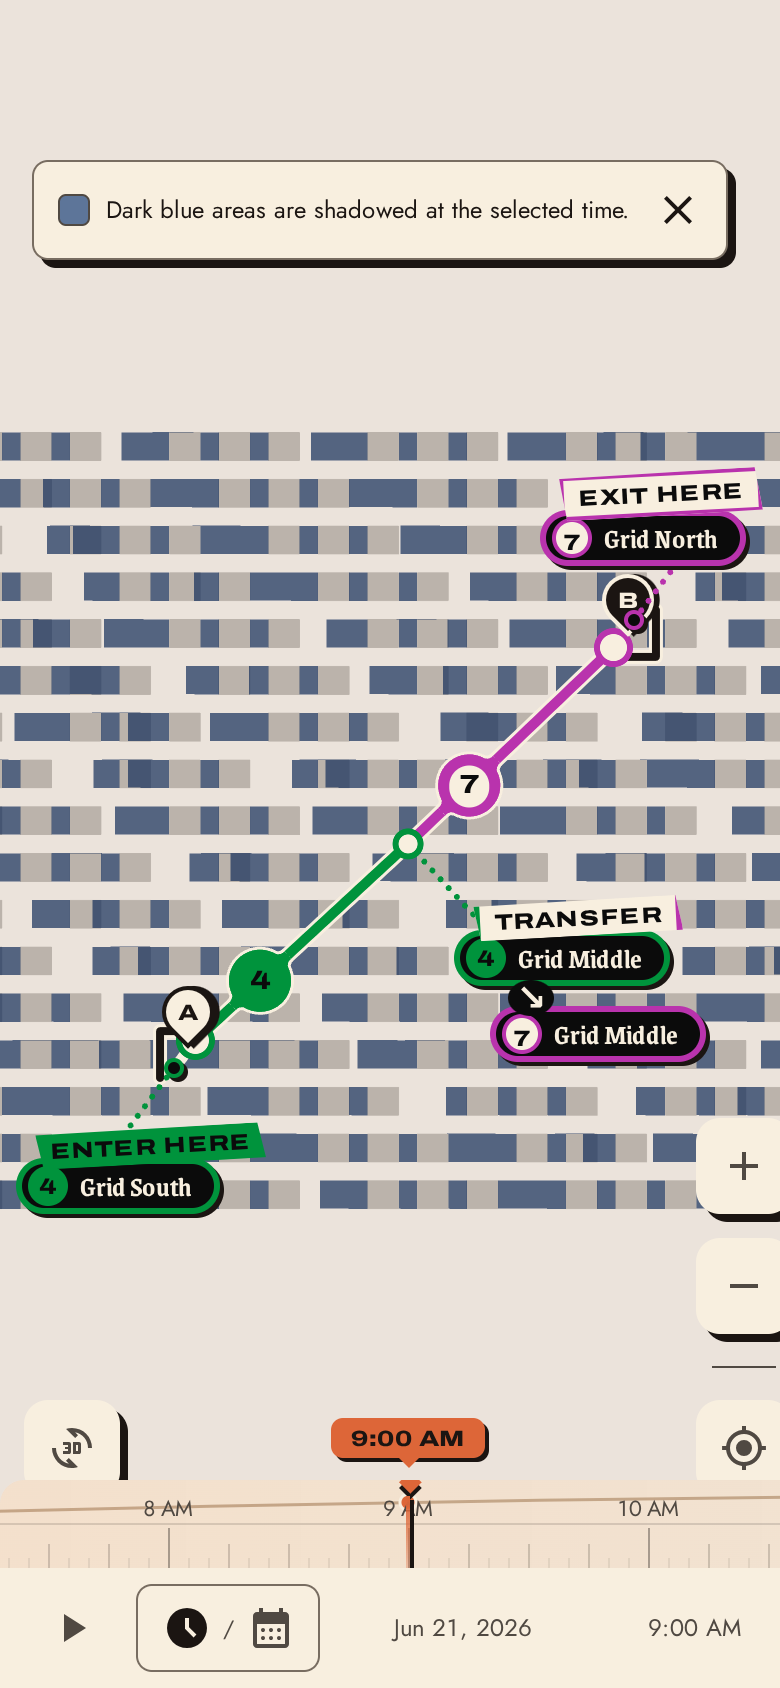
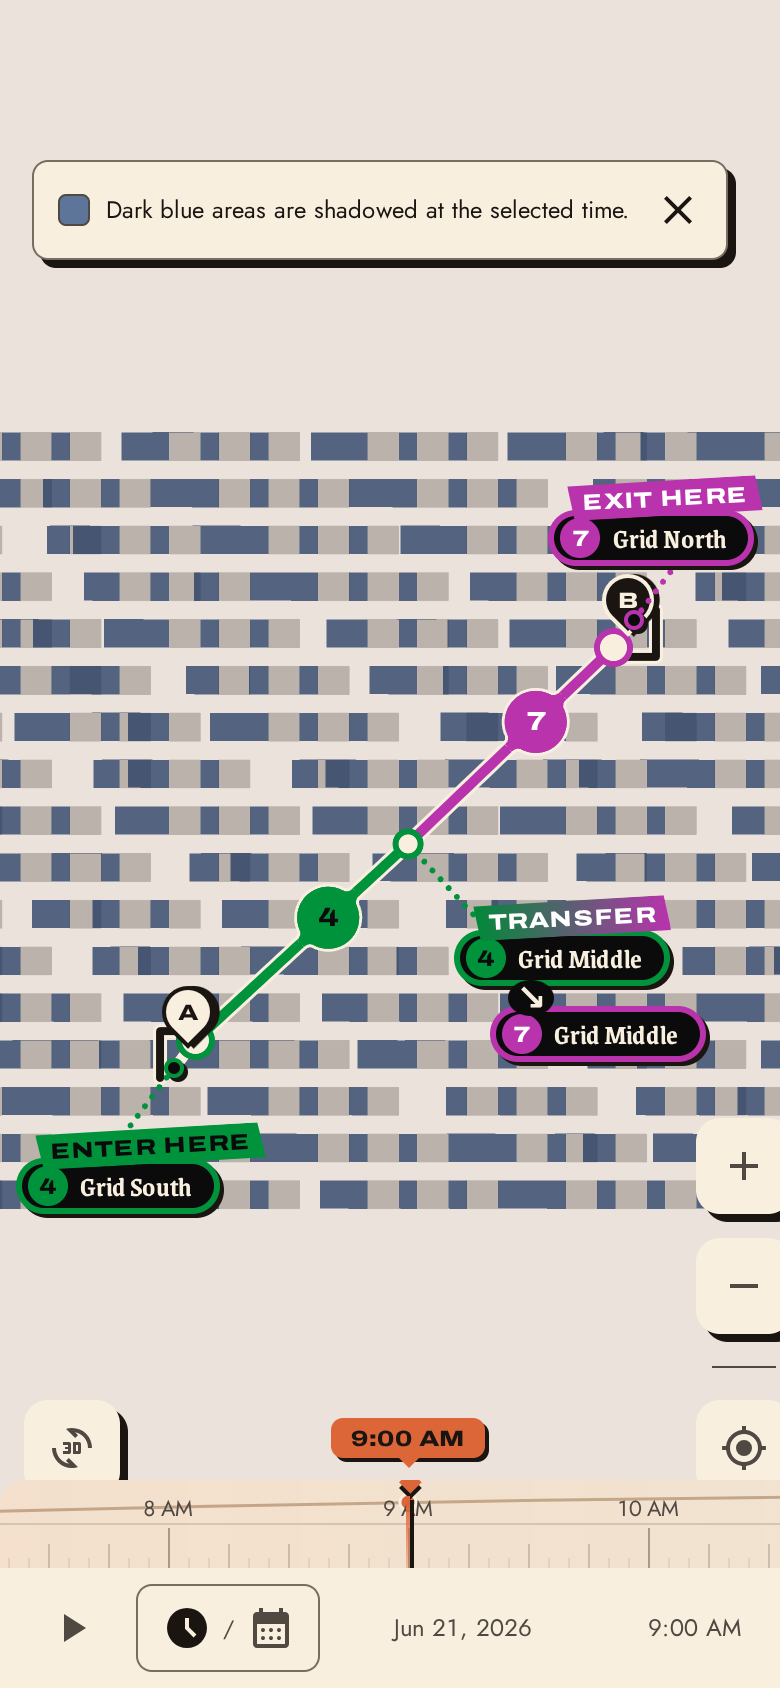
fix(design): fill Umbra redesign 2.0 line badges and grade transfers

diff --git a/app/components/__tests__/mapPins.test.ts b/app/components/__tests__/mapPins.test.ts
@@ -33,11 +33,12 @@ describe("lineCoinElement", () => {
     expect(letter.style.color).toBe("var(--color-line-ink-dark)");
   });
 
-  it("sets the letter on a cream disc where no ink reads on the line's colour", () => {
+  it("sets the 7 directly on purple with white text", () => {
     const { fill, grip } = lineCoinElement("7", "B933AD");
     // A bare-hex OSM colour is made valid CSS.
     expect(fill.getAttribute("fill")).toBe("#B933AD");
-    expect((grip.querySelector("span") as HTMLElement).style.background).toBe("var(--color-line-ink-light)");
+    expect((grip.querySelector("span") as HTMLElement).style.color).toBe("var(--color-line-ink-white)");
+    expect((grip.querySelector("span") as HTMLElement).style.background).toBe("");
   });
 
   it("gives every coin its own clip and mask ids", () => {
@@ -115,10 +116,12 @@ describe("stopFlagElement", () => {
     expect(part(flag, "leader").getAttribute("d")).toBe("M-6.00,0.00L0.00,-8.00");
   });
 
-  it("rings the letter and plate on cream where no ink reads on the line's colour", () => {
+  it("fills the 7 and its plate purple with white text", () => {
     const flag = stopFlagElement("enter", "7", "B933AD", "Flushing–Main St", [1, 0]);
-    expect(part(flag, "kicker").style.background).toBe("var(--color-line-ink-light)");
-    expect(part(flag, "line").style.border).toContain("rgb(185, 51, 173)");
+    expect(part(flag, "kicker").style.background).toBe("rgb(185, 51, 173)");
+    expect(part(flag, "kicker").style.color).toBe("var(--color-line-ink-white)");
+    expect(part(flag, "line").style.background).toBe("rgb(185, 51, 173)");
+    expect(part(flag, "line").style.color).toBe("var(--color-line-ink-white)");
   });
 
   it("never takes the pointer", () => {
@@ -139,7 +142,21 @@ describe("transferFlagElement", () => {
     expect([...flag.querySelectorAll("[data-part='stop-name']")].map((part) => part.textContent)).toEqual(["Grid Middle", "Grid Middle"]);
     expect((flag.querySelector("[data-part='from-shield']") as HTMLElement).style.border).toContain("rgb(0, 147, 60)");
     expect((flag.querySelector("[data-part='to-shield']") as HTMLElement).style.border).toContain("rgb(185, 51, 173)");
-    expect((flag.querySelector("[data-part='to-shield'] [data-part='line']") as HTMLElement).style.border).toContain("rgb(185, 51, 173)");
+    expect((flag.querySelector("[data-part='to-shield'] [data-part='line']") as HTMLElement).style.color).toBe("var(--color-line-ink-white)");
+    expect((flag.querySelector("[data-part='kicker']") as HTMLElement).style.backgroundImage).toContain("linear-gradient");
+    expect((flag.querySelector("[data-part='kicker']") as HTMLElement).style.color).toBe("var(--color-line-ink-white)");
     expect(flag.style.pointerEvents).toBe("none");
+  });
+
+  it("keeps the gradient but grounds text when a bright line cannot carry white", () => {
+    const flag = transferFlagElement(
+      { line: "N", color: "#FCCC0A", name: "Canal St" },
+      { line: "7", color: "#B933AD", name: "Times Sq" },
+      [1, 0],
+    );
+    const plate = flag.querySelector<HTMLElement>("[data-part='kicker']")!;
+    expect(plate.style.backgroundImage).toContain("linear-gradient");
+    expect(plate.querySelector("span")?.style.background).toBe("var(--color-line-ink-dark)");
+    expect(plate.querySelector("span")?.textContent).toBe("Transfer");
   });
 });

diff --git a/app/components/mapPins.ts b/app/components/mapPins.ts
@@ -1,5 +1,5 @@
 import { COIN_RADIUS } from "../lib/lineBadges";
-import { lineBulletInk, lineCssColor } from "../lib/lineBulletInk";
+import { lineBulletInk, lineCssColor, lineWhitePlateFill } from "../lib/lineBulletInk";
 
 /**
  * Umbra redesign 2.0 R4b map pins: one teardrop, two fills, never colour alone.
@@ -166,7 +166,7 @@ function flagShield(line: string, color: string, name: string): HTMLDivElement {
  *
  * The shield's inks are theme-fixed like the line bullets', so it reads the same
  * on both maps; the plate and coin take whichever ink reads at 4.5:1 on the
- * line's colour, or a cream ground ringed in it where neither does. A zero-size
+ * line's colour, using white where cream misses the threshold, or a cream ground ringed in it where neither does. A zero-size
  * anchor at the door or stop that never takes the pointer; DOM only, never the canvas.
  */
 export function stopFlagElement(
@@ -278,14 +278,25 @@ export function transferFlagElement(
   `;
   const plate = document.createElement("span");
   plate.dataset.part = "kicker";
-  plate.textContent = "Transfer";
+  const fromPlate = lineWhitePlateFill(from.color);
+  const toPlate = lineWhitePlateFill(to.color);
+  const whiteOnGradient = fromPlate !== null && toPlate !== null;
   plate.style.cssText = `
     position:relative;z-index:1;margin:0 0 -3px 10px;padding:2px 7px;white-space:nowrap;
     font-family:var(--font-label);font-size:11px;font-weight:800;letter-spacing:0.06em;
-    text-transform:uppercase;line-height:1.3;rotate:var(--angle-flag);clip-path:var(--plate-clip);
-    background:var(--color-line-ink-light);color:var(--color-line-ink-dark);
-    border-left:3px solid ${lineCssColor(from.color)};border-right:3px solid ${lineCssColor(to.color)};
+    text-transform:uppercase;line-height:1.3;color:var(--color-line-ink-white);
+    rotate:var(--angle-flag);clip-path:var(--plate-clip);
+    background:linear-gradient(90deg, ${fromPlate ?? lineCssColor(from.color)}, ${toPlate ?? lineCssColor(to.color)});
   `;
+  if (whiteOnGradient) {
+    plate.textContent = "Transfer";
+  } else {
+    const plateText = document.createElement("span");
+    plateText.textContent = "Transfer";
+    plateText.style.cssText = "display:block;padding:0 3px;background:var(--color-line-ink-dark);color:var(--color-line-ink-white);";
+    plate.style.padding = "3px 5px";
+    plate.appendChild(plateText);
+  }
   const shields = document.createElement("div");
   shields.dataset.part = "shield";
   shields.style.cssText = "display:flex;flex-direction:column;align-items:flex-start;";

diff --git a/app/lib/lineBulletInk.ts b/app/lib/lineBulletInk.ts
@@ -5,14 +5,15 @@
  * bullet fills with it so the card names the line the map draws. The
  * identifier on that fill must still read, so it takes whichever registry ink
  * — the line-bullet near-black or the day panel cream — has the higher WCAG
- * contrast against it. `null` when neither ink reaches 4.5:1 (mid-tones such
- * as the 7's purple and the J/Z brown) or the colour is not a hex value (an
- * OSM `colour=red`, say): the caller then rings the identifier in the line's
- * colour instead of filling behind it.
+ * contrast against it. White replaces cream where cream narrowly misses 4.5:1,
+ * as on the 7's purple and the J/Z brown. `null` when no ink reaches 4.5:1
+ * or the colour is not a hex value (an OSM `colour=red`, say): the caller then
+ * rings the identifier in the line's colour instead of filling behind it.
  */
 
 const DARK = "#0b0b0b";
 const LIGHT = "#f8efdf";
+const WHITE = "#ffffff";
 const MIN_TEXT_CONTRAST = 4.5;
 
 function luminance(hex: string): number | null {
@@ -38,9 +39,26 @@ export function contrastRatio(a: string, b: string): number | null {
   return (Math.max(la, lb) + 0.05) / (Math.min(la, lb) + 0.05);
 }
 
-export function lineBulletInk(lineColor: string): "dark" | "light" | null {
+export function lineBulletInk(lineColor: string): "dark" | "light" | "white" | null {
   const dark = contrastRatio(lineColor, DARK);
   const light = contrastRatio(lineColor, LIGHT);
-  if (dark == null || light == null || Math.max(dark, light) < MIN_TEXT_CONTRAST) return null;
+  if (dark == null || light == null) return null;
+  if (Math.max(dark, light) < MIN_TEXT_CONTRAST) {
+    const white = contrastRatio(lineColor, WHITE);
+    return white != null && white >= MIN_TEXT_CONTRAST ? "white" : null;
+  }
   return dark >= light ? "dark" : "light";
+}
+
+/** A line hue darkened only enough for white kicker text, within a small colour shift. */
+export function lineWhitePlateFill(lineColor: string): string | null {
+  const css = lineCssColor(lineColor);
+  const match = /^#([0-9a-f]{6})$/i.exec(css);
+  if (!match) return null;
+  const channels = [0, 2, 4].map((index) => Number.parseInt(match[1].slice(index, index + 2), 16));
+  for (let shade = 0; shade <= 20; shade++) {
+    const fill = `#${channels.map((channel) => Math.round(channel * (100 - shade) / 100).toString(16).padStart(2, "0")).join("")}`;
+    if ((contrastRatio(fill, WHITE) ?? 0) >= MIN_TEXT_CONTRAST) return fill;
+  }
+  return null;
 }

diff --git a/app/lib/__tests__/lineBulletInk.test.ts b/app/lib/__tests__/lineBulletInk.test.ts
@@ -1,5 +1,5 @@
 import { describe, expect, it } from "vitest";
-import { contrastRatio, lineBulletInk } from "../lineBulletInk";
+import { contrastRatio, lineBulletInk, lineWhitePlateFill } from "../lineBulletInk";
 
 describe("lineBulletInk", () => {
   it.each([
@@ -10,9 +10,9 @@ describe("lineBulletInk", () => {
     ["#00933C", "dark"],
     ["#A7A9AC", "dark"],
     ["#0070BD", "light"],
-    // Mid-tones no ink reaches 4.5:1 on: the 7's purple, the J/Z brown.
-    ["#B933AD", null],
-    ["#996633", null],
+    // Cream narrowly misses these line colours; white clears 4.5:1.
+    ["#B933AD", "white"],
+    ["#996633", "white"],
   ] as const)("inks %s %s", (color, ink) => {
     expect(lineBulletInk(color)).toBe(ink);
   });
@@ -20,7 +20,7 @@ describe("lineBulletInk", () => {
   it("never picks an ink under 4.5:1 on the fill", () => {
     for (const color of ["#FCCC0A", "#EE352E", "#0039A6", "#00933C", "#A7A9AC", "#B933AD", "#FF6319", "#996633", "#808183", "#6CBE45"]) {
       const ink = lineBulletInk(color);
-      if (ink) expect(contrastRatio(color, ink === "dark" ? "#0b0b0b" : "#f8efdf")).toBeGreaterThanOrEqual(4.5);
+      if (ink) expect(contrastRatio(color, { dark: "#0b0b0b", light: "#f8efdf", white: "#ffffff" }[ink])).toBeGreaterThanOrEqual(4.5);
     }
   });
 
@@ -28,5 +28,20 @@ describe("lineBulletInk", () => {
     expect(lineBulletInk("#fc0")).toBe("dark");
     expect(lineBulletInk("red")).toBeNull();
     expect(lineBulletInk("")).toBeNull();
+    const contrastGap = `#${"77".repeat(3)}`;
+    expect(lineBulletInk(contrastGap)).toBeNull();
+  });
+});
+
+describe("lineWhitePlateFill", () => {
+  it("keeps the purple hue and darkens green only enough for white text", () => {
+    const green = lineWhitePlateFill("#00933C");
+    expect(green).not.toBe("#00933C");
+    expect(contrastRatio(green!, "#ffffff")).toBeGreaterThanOrEqual(4.5);
+    expect(lineWhitePlateFill("#B933AD")).toBe("#b933ad");
+  });
+
+  it("leaves a bright line to use a solid text inset", () => {
+    expect(lineWhitePlateFill("#FCCC0A")).toBeNull();
   });
 });

diff --git a/e2e/smoke.spec.ts b/e2e/smoke.spec.ts
@@ -326,12 +326,15 @@ test("shows both lines and the transfer before and during navigation", async ({ 
   expect(card).toContain("Flushing Local");
   expect(card).toContain("Walking turns");
   expect(card).toContain("2 stops");
+  await expect(page.locator(".umbra-line-bullet--data .umbra-line-bullet__id").filter({ hasText: "7" }).first()).toHaveCSS("color", "rgb(255, 255, 255)");
   await expect(page.locator("[data-part='stop-flag'] [data-part='line']")).toHaveText(["4", "7"]);
   const transferFlag = page.locator("[data-part='transfer-flag']");
   await expect(transferFlag).toHaveCount(1);
   await expect(transferFlag).toHaveAttribute("aria-label", "Transfer: 4, Grid Middle to 7, Grid Middle");
   await expect(transferFlag.locator("[data-part='kicker']")).toHaveText("Transfer");
+  await expect(transferFlag.locator("[data-part='kicker']")).toHaveCSS("background-image", /linear-gradient/);
   await expect(transferFlag.locator("[data-part='line']")).toHaveText(["4", "7"]);
+  await expect(transferFlag.locator("[data-part='to-shield'] [data-part='line']")).toHaveCSS("color", "rgb(255, 255, 255)");
 
   await page.getByRole("button", { name: "START NAVIGATING" }).filter({ visible: true }).first().click();
   await expect.poll(() => page.locator('ol[aria-label="Route steps"]').first().textContent()).toContain("Change at Grid Middle");

diff --git a/app/components/ui/__tests__/primitives.test.tsx b/app/components/ui/__tests__/primitives.test.tsx
@@ -218,10 +218,17 @@ describe("LineBullet", () => {
     expect(bullet.style.getPropertyValue("--line-on")).toBe("var(--color-line-ink-dark)");
   });
 
-  it("rings the identifier when no ink reads on the line's colour", () => {
-    render(<LineBullet accent="#4d75c3" code="7" data-testid="seven" />);
+  it("rings the identifier when a line colour cannot be measured", () => {
+    render(<LineBullet accent="red" code="7" data-testid="seven" />);
     expect(screen.getByTestId("seven").className).toBe("umbra-line-bullet umbra-line-bullet--data umbra-line-bullet--ringed");
     expect(screen.getByText("7").className).toBe("umbra-line-bullet__id");
+  });
+
+  it("fills the 7's purple with white text", () => {
+    render(<LineBullet accent="B933AD" code="7" data-testid="seven" />);
+    const bullet = screen.getByTestId("seven");
+    expect(bullet.className).toBe("umbra-line-bullet umbra-line-bullet--data");
+    expect(bullet.style.getPropertyValue("--line-on")).toBe("var(--color-line-ink-white)");
   });
 
   it("reads a bare-hex line colour as hex rather than dropping it", () => {

diff --git a/app/globals.css b/app/globals.css
@@ -115,10 +115,11 @@
   --color-line-yellow-on: #0b0b0b;
   --color-line-yellow-ground: #1f1c0c;
   --color-line-yellow-plate: #3c361a;
-  /* A line's own published colour fills its bullet; its identifier takes the ink
-     `lineBulletInk` measures higher. Theme-fixed: the fill does not flip. */
+  /* A line's own published colour fills its bullet; its identifier takes a
+     contrasting dark, cream, or white ink. Theme-fixed: the fill does not flip. */
   --color-line-ink-dark: #0b0b0b;
   --color-line-ink-light: #f8efdf;
+  --color-line-ink-white: #ffffff;
 
   /* Renderer-facing values stay fixed through R4. */
   /* Map overlays (R4b) — route, casing, pins, stops, sun diagram — follow the basemap

diff --git a/docs/tracks/TRACK_R.md b/docs/tracks/TRACK_R.md
@@ -30,11 +30,12 @@ inspiration; the public mirror publishes everything here.
   fixed zero. The rail time, wait and exposure remain whole-trip figures; no per-line
   minutes are inferred. Each new boarding now flies a Transfer kicker flag from the
   change stop, with separate line-coloured shields for the arriving and departing stops
-  and an arrow between them; same-station changes need no explicit transfer edge. The
+  and an arrow between them; the kicker plate grades from the arriving line's colour to
+  the boarded line's. Same-station changes need no explicit transfer edge. The
   flag is a pointer-free DOM overlay and clamps inside the map. The longer itinerary keeps
   Start Navigating at the phone sheet foot and resets the sheet to its top on phase changes.
-  Before/after phone shots
-  in both themes are in `docs/design/shots/transit-transfer/`. A check of the supplied
+  Before/after phone shots in both themes are in `docs/design/shots/transit-transfer/`.
+  A check of the supplied
   live route is outstanding after the local street-data request returned 503.
 - **#155 (merged):** kicker flags at transit station doors.
   Each ride's board and exit door now has a compact dot and a dotted leader in the line's
@@ -87,8 +88,8 @@ inspiration; the public mirror publishes everything here.
   since its cream band matches the page), though the start action ended up a square ink
   `.umbra-start-button` by owner call.
   `LineBullet accent` fills with the line's published colour; `lib/lineBulletInk.ts` picks the
-  identifier ink by WCAG contrast (`--color-line-ink-{dark,light}`), or rings the identifier
-  when neither reaches 4.5:1 (the 7's purple, the J/Z brown). The split bar is square and
+  identifier ink by WCAG contrast (`--color-line-ink-{dark,light,white}`), or rings the identifier
+  when none reaches 4.5:1. White fills the 7's purple and the J/Z brown. The split bar is square and
   ink-ruled, shade against solid `--color-sun-signal`, with its basis stated under it
   (`routeSplitBasis`: distance for a walk, time outdoors for transit). After sunset at the
   route's own `evaluatedContext` time and place (`routeAfterSunset`, the theme's 0° rule),
@@ -130,8 +131,8 @@ inspiration; the public mirror publishes everything here.
   Still open from R4b: hollow A/filled B swap at night; the opaque night route covers labels.
 - **Next action:** independent reviews of #158 when agent quota permits, then owner review and R6 — timeline and sheet (#138). #126 keeps its SettingsPanel/SaveRouteModal half.
 - **Last verified (#157):** 2026-10-01 on Node 24; lint (0 errors, 81 baseline warnings),
-  typecheck, 1,802 unit tests, build, design:check and e2e 18/18. Day and night phone shots
-  show both line bullets, the change station, and the Transfer flag on the map. The supplied
+  typecheck, 1,806 unit tests, build, design:check and e2e 18/18. Day and night phone shots
+  show filled 7 bullets, the change station, and the graded Transfer flag on the map. The supplied
   live route could not be checked locally because its street-data request returned 503;
   a real-phone feel check is outstanding.
 - **Last verified (#155):** 2026-09-30 on Node 24; lint (0 errors, 81 baseline warnings),

diff --git a/docs/design/language.md b/docs/design/language.md
@@ -24,6 +24,8 @@ These are source values; R1 registers role names, not generic color utilities. S
 
 For actual transit line bullets, the reference quartets are blue `#60CDE3 / #10130D / #0C1B1D / #1A3237`, green `#97DA79 / #0E1A08 / #101B0A / #2C3D24`, and yellow `#FFE14D / #0B0B0B / #1F1C0C / #3C361A` (accent / badge ink / ground / plate). R1 may adapt the ground and plate to the day theme while preserving the line's identity and contrast. A colored line alone must never be the only distinction; show its identifier.
 
+Published line colours keep a filled identifier when dark, cream, or white ink reaches 4.5:1. White keeps the 7's purple and J/Z brown filled where cream misses. A line colour that still has no readable ink uses a ringed identifier. Transfer kickers run from the arriving line's colour to the boarded line's colour; the plate darkens either end only enough for white text, or sets the text on dark ink when a bright line cannot carry white.
+
 ### Contrast and outdoor reading
 
 - Small text must reach **4.5:1**, essential graphical boundaries **3:1**; primary reading targets **7:1**. Captions are **at least 11px**, including map metadata. Primary ink is 15.88:1 on night ground and 14.36:1 on day ground.
